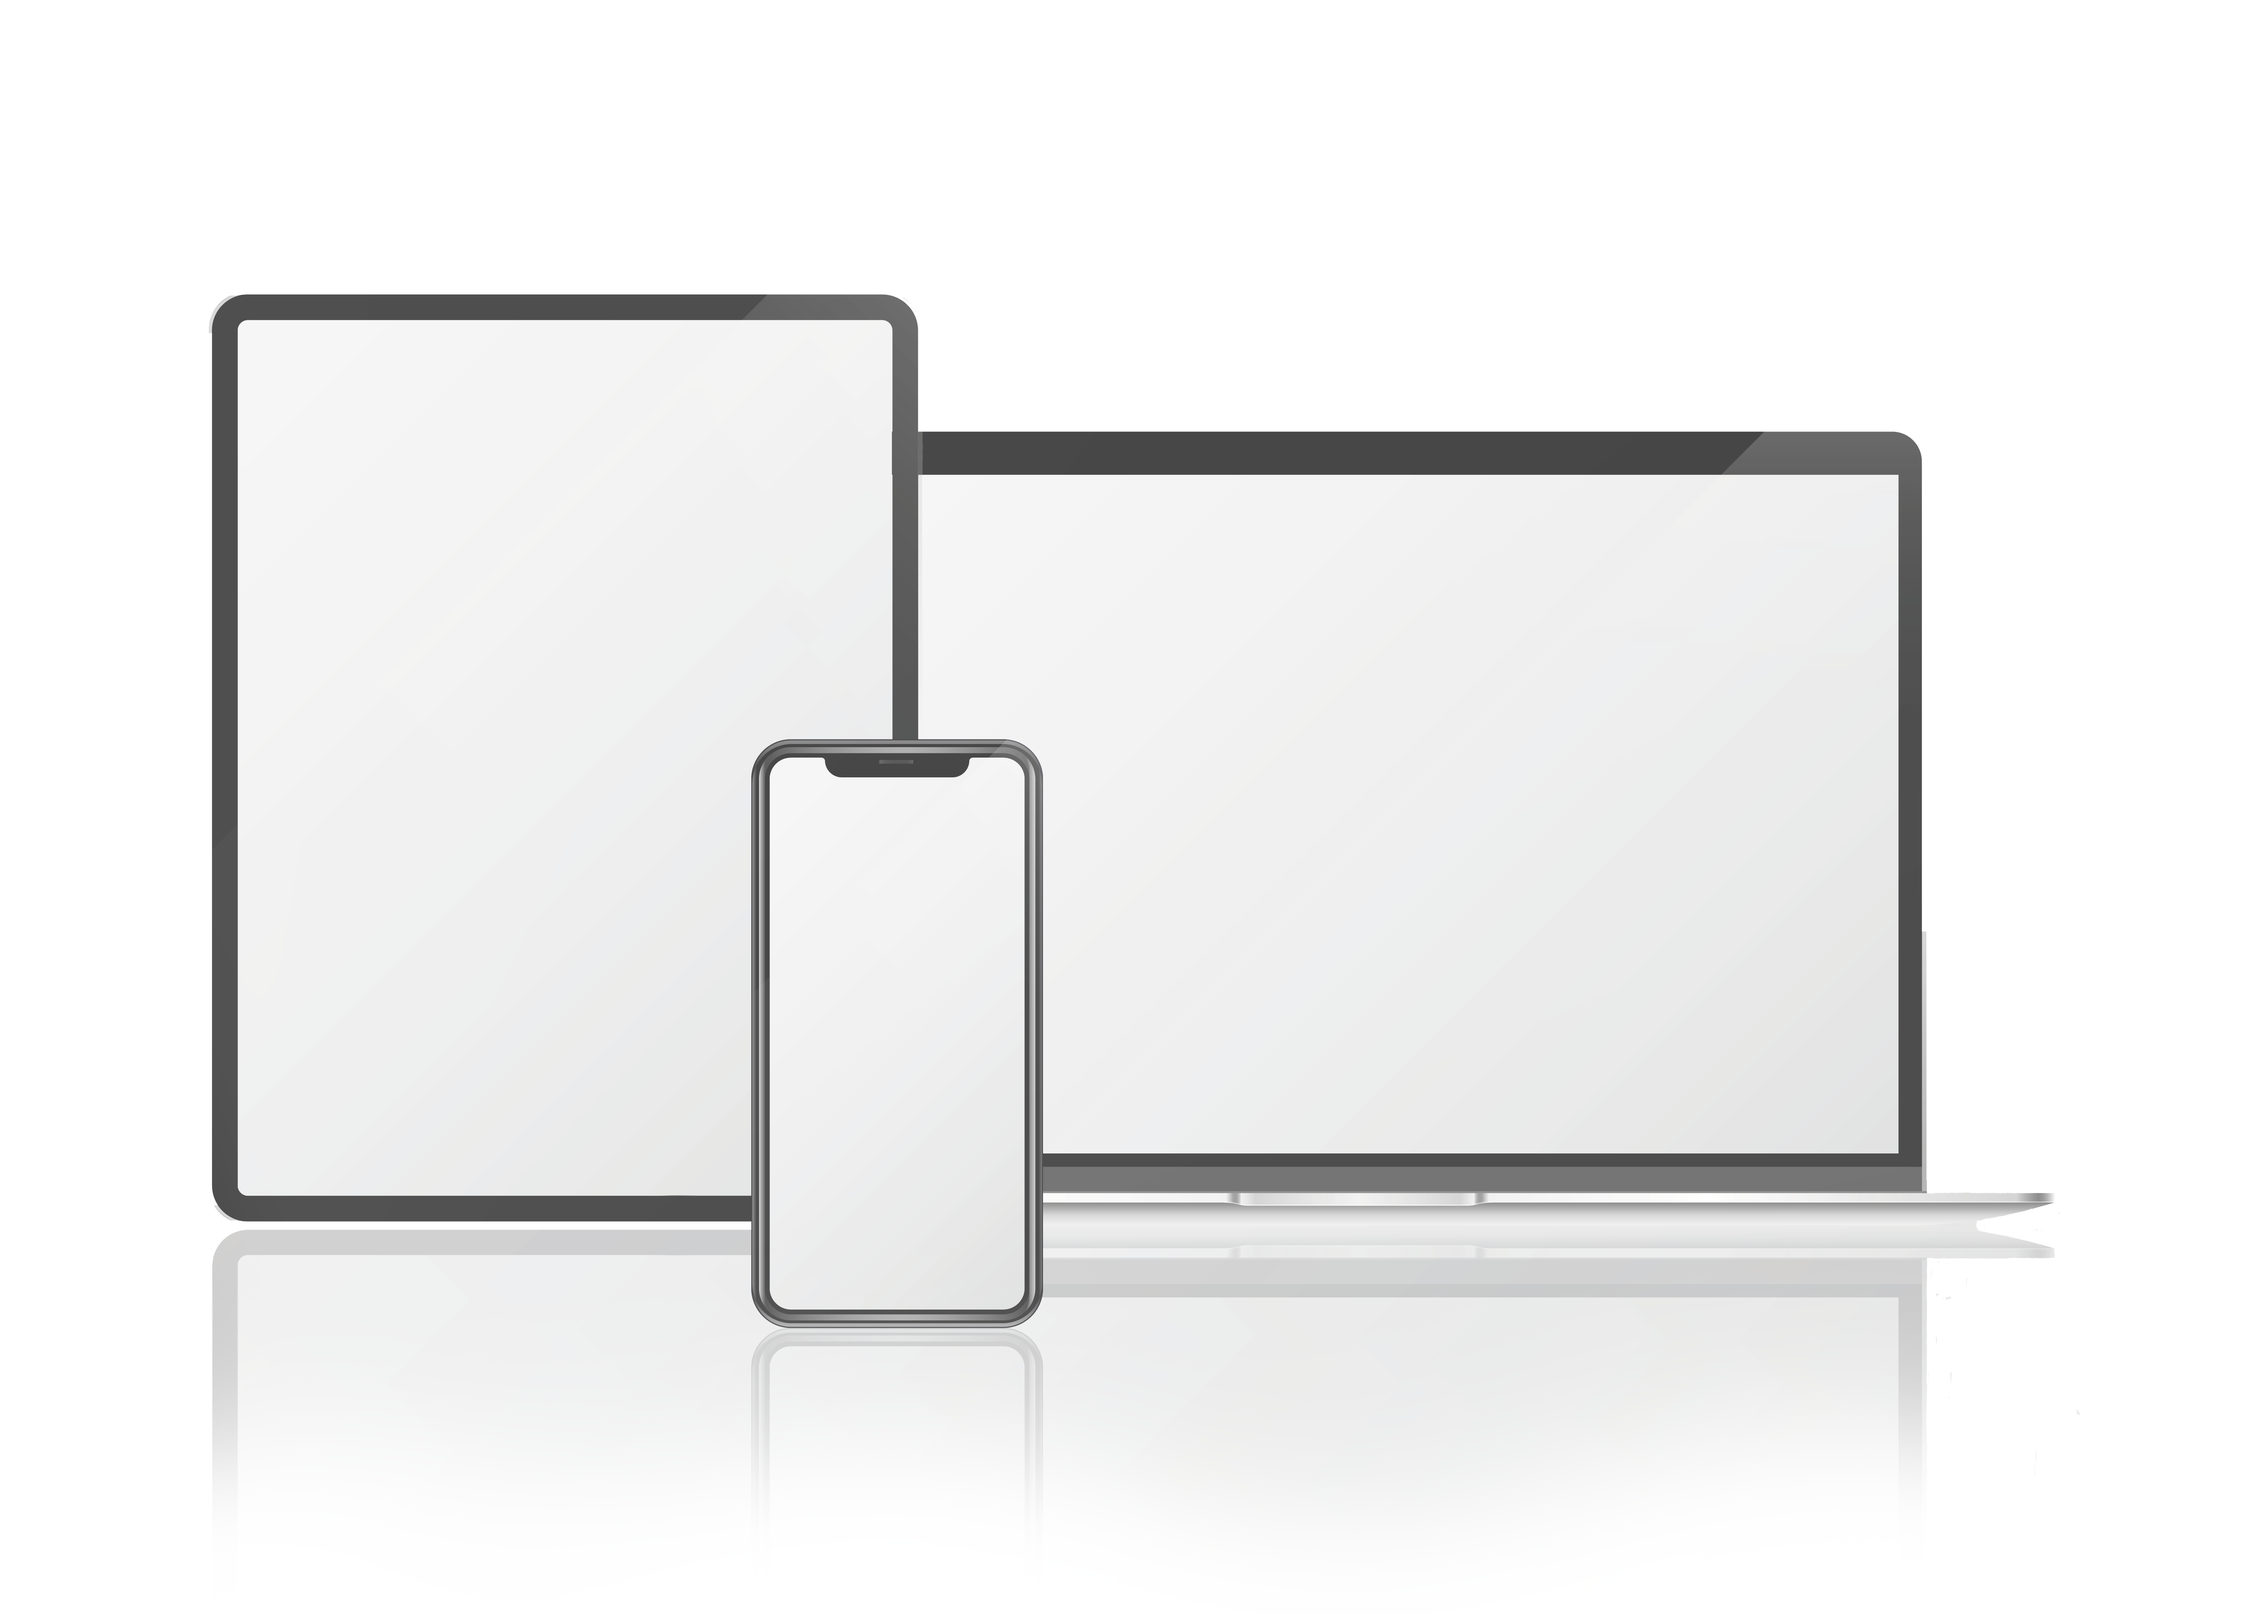
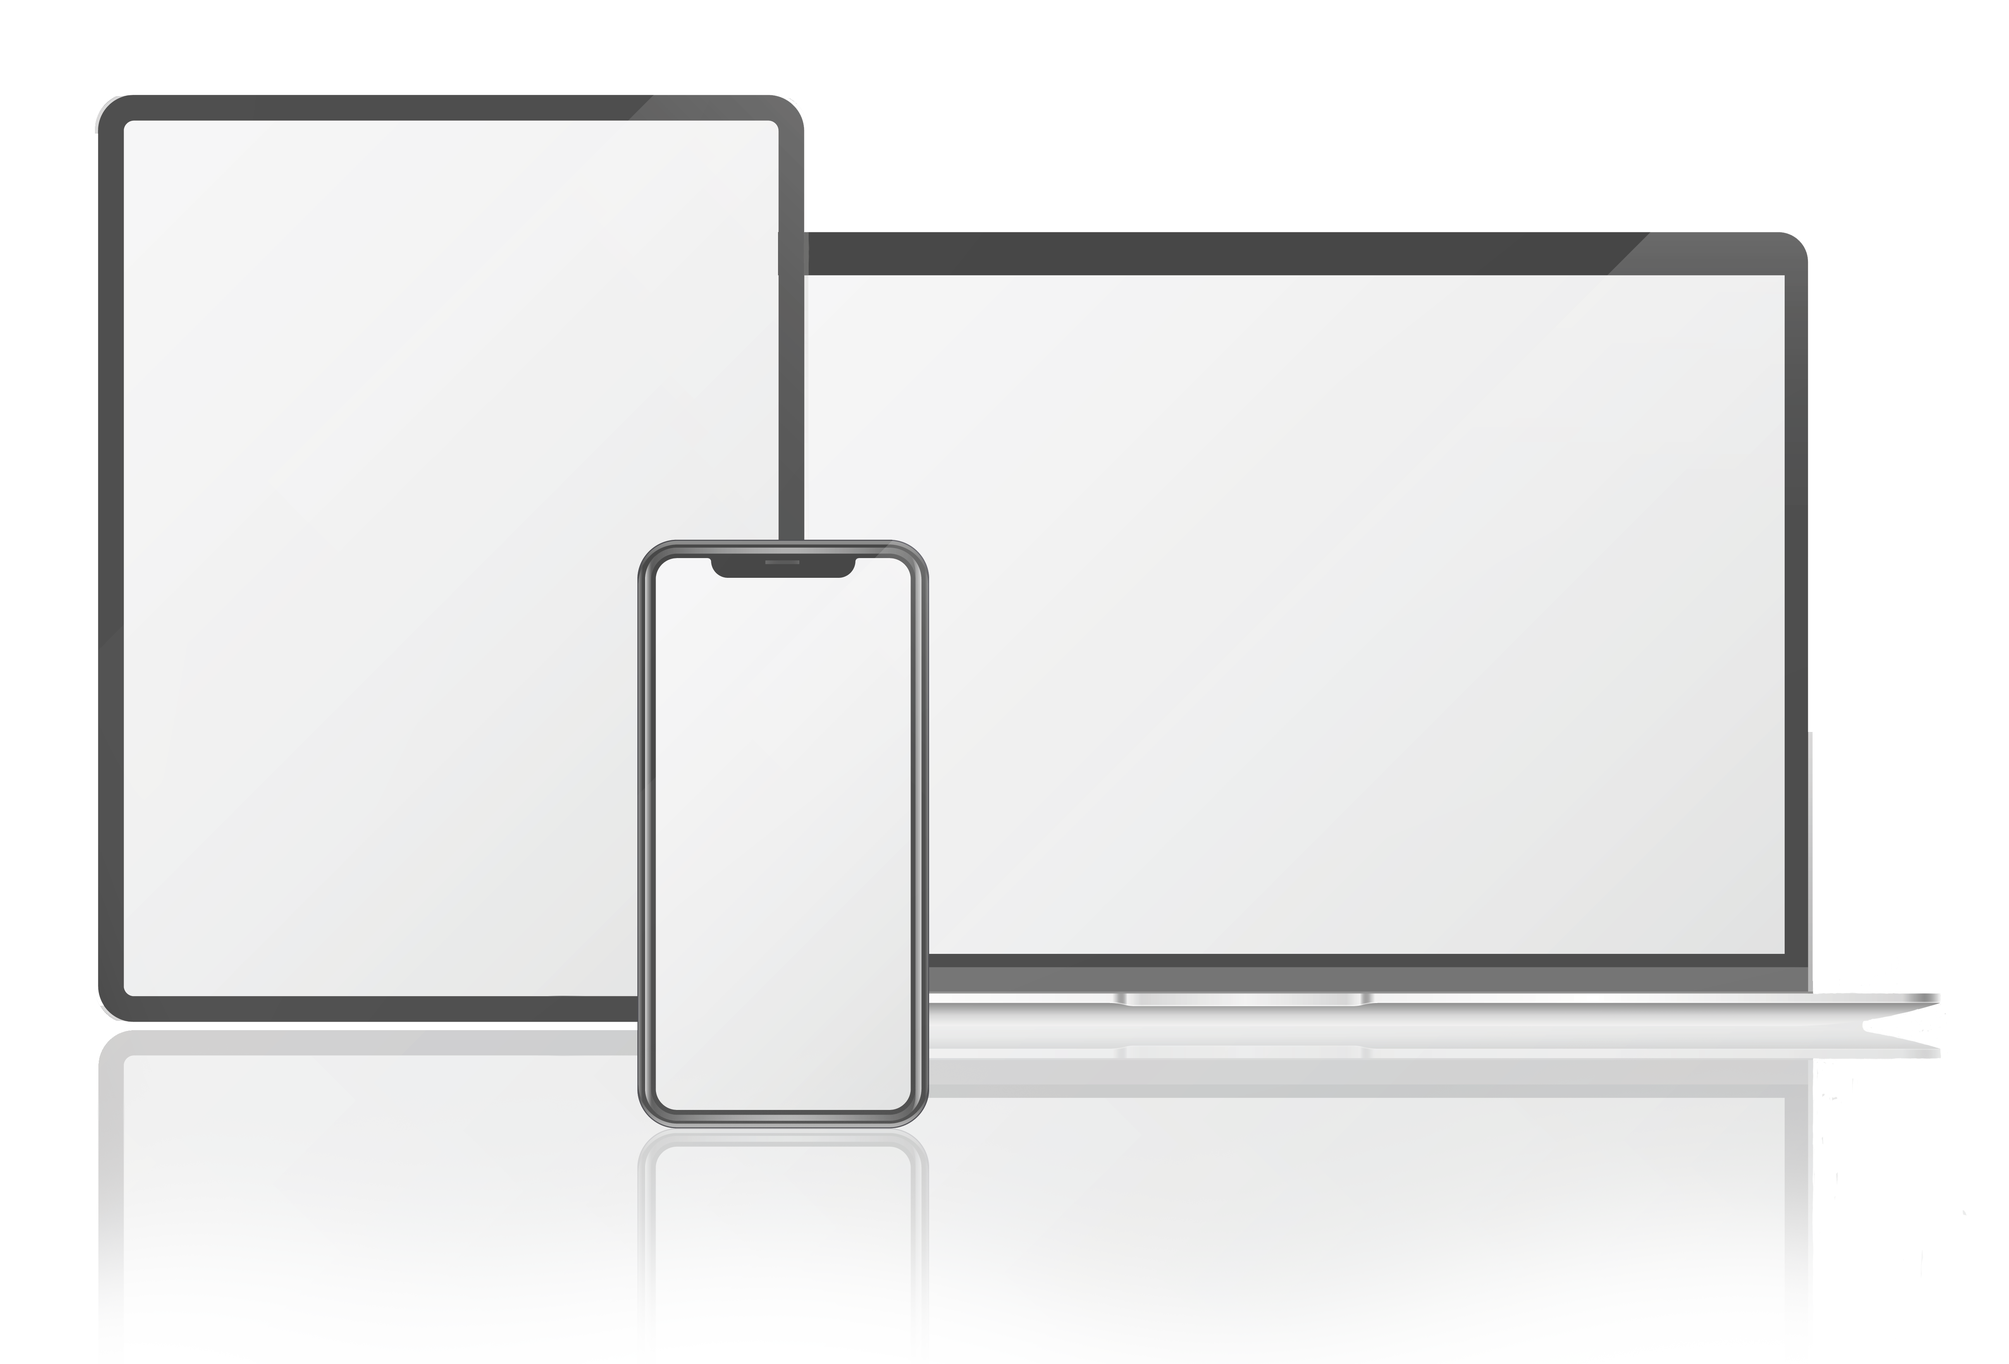
Before and After Authentication styling complete for landing page and navbar

Changed region(s): [[0.0312, 0.0625, 0.9686, 0.9057]]

diff --git a/Squashable/ClientApp/src/components/Home.js b/Squashable/ClientApp/src/components/Home.js
@@ -1,5 +1,6 @@
 import React from "react";
 import { useAuth0 } from "@auth0/auth0-react";
+import Profile from "./Profile";
 import DeviceMockups from "../media/device-mockups.png";
 import "./Home.css";
 import "../App.css";
@@ -9,9 +10,9 @@ export const Home = () => {
   const renderHomepage = () => {
     if (isAuthenticated) {
       return (
-        <div fluid className="home-container">
+        <>
           <div className="home-section">
-            <div className="landing-page-heading">
+            <div className="landing-page-heading-after-auth">
               <h2>Welcome to</h2>
               <h1>Squashable.</h1>
               <h2>a fully functional bug tracking system.</h2>
@@ -19,54 +20,57 @@ export const Home = () => {
                 built for <u className="developer-word">Developers</u>, by{" "}
                 <u className="developer-word">Developers</u>.
               </h3>
-              <button className="dashboard-button" to="/dashboard">
-                Dashboard
-              </button>
             </div>
+
             <img
-              id="device-mockups"
+              id="device-mockups-after-auth"
               src={DeviceMockups}
-              class="img-fluid fade-in-image"
+              class="img-fluid fade-in-image ms-auto"
               alt="device-mockups"
             ></img>
           </div>
+
           <div className="about-section">
             <h1>About</h1>
           </div>
           <div className="contact-section">
             <h1>Contact</h1>
           </div>
-        </div>
+        </>
       );
     } else {
       return (
-        <div fluid className="home-container">
-          <div className="home-section">
-            <div className="landing-page-heading">
-              <h2>Welcome to</h2>
-              <h1>Squashable.</h1>
-              <h2>a fully functional bug tracking system.</h2>
-              <h3>
-                built for <u className="developer-word">Developers</u>, by{" "}
-                <u className="developer-word">Developers</u>.
-              </h3>
+        <>
+          <div fluid className="home-container">
+            <div className="home-section">
+              <div className="landing-page-heading-before-auth">
+                <h2>Welcome to</h2>
+                <h1>Squashable.</h1>
+                <h2>a fully functional bug tracking system.</h2>
+                <h3>
+                  built for <u className="developer-word">Developers</u>, by{" "}
+                  <u className="developer-word">Developers</u>.
+                </h3>
+              </div>
+
+              <img
+                id="device-mockups-before-auth"
+                src={DeviceMockups}
+                class="img-fluid fade-in-image ms-auto"
+                alt="device-mockups"
+              ></img>
             </div>
-            <img
-              id="device-mockups"
-              src={DeviceMockups}
-              class="img-fluid fade-in-image"
-              alt="device-mockups"
-            ></img>
+            <div className="about-section">
+              <h1>About</h1>
+            </div>
+            <div className="contact-section">
+              <h1>Contact</h1>
+            </div>
           </div>
-          <div className="about-section">
-            <h1>About</h1>
-          </div>
-          <div className="contact-section">
-            <h1>Contact</h1>
-          </div>
-        </div>
+        </>
       );
     }
   };
+
   return <>{renderHomepage()}</>;
 };

diff --git a/Squashable/ClientApp/src/components/NavMenu.js b/Squashable/ClientApp/src/components/NavMenu.js
@@ -1,9 +1,11 @@
 import React from "react";
 import { Container, Navbar, Nav } from "react-bootstrap";
-import Profile from "../components/Profile";
 import { useAuth0 } from "@auth0/auth0-react";
 import { Link } from "react-router-dom";
 import "./NavMenu.css";
+import LogoutButton from "./Logout";
+import LoginButton from "./Login";
+import Profile from "./Profile";
 
 const NavMenu = () => {
   const { isAuthenticated } = useAuth0();
@@ -13,13 +15,17 @@ const NavMenu = () => {
       <Navbar sticky="top" className="navbar" expand="lg">
         <Container className="navbar-container">
           <Navbar.Brand variant="light" tag={Link} to="/">
-            Squashable
+            Squashable.
           </Navbar.Brand>
           <Navbar.Toggle aria-controls="basic-navbar-nav" />
           <Navbar.Collapse id="basic-navbar-nav">
             <Nav className="ms-auto nav-links">
               <Profile />
 
+              <button className="dashboard-button" to="/dashboard">
+                Dashboard
+              </button>
+              <LogoutButton />
               <Nav.Link
                 className="nav-about-btn"
                 variant="light"
@@ -46,8 +52,7 @@ const NavMenu = () => {
           <Navbar.Toggle aria-controls="basic-navbar-nav" />
           <Navbar.Collapse id="basic-navbar-nav">
             <Nav className="ms-auto nav-links">
-              <Profile />
-
+              <LoginButton />
               <Nav.Link
                 className="nav-about-btn"
                 variant="light"

diff --git a/Squashable/ClientApp/src/components/Home.css b/Squashable/ClientApp/src/components/Home.css
@@ -225,8 +225,17 @@ h3 {
 
 @media only screen and (min-width: 1200px) {
 
-.landing-page-heading{
-    margin-top: 2%;
+.landing-page-heading-after-auth{
+    margin-top: 3%;
+    margin-left: 5%;
+    width: fit-content;
+    max-width: 100%;
+    display: flex;
+    flex-direction: column;
+}
+
+.landing-page-heading-before-auth {
+    margin-top: 9%;
     margin-left: 5%;
     width: fit-content;
     max-width: 100%;
@@ -254,6 +263,7 @@ h3 {
     width: 2000px;
     margin: auto;
     max-width: 100%;
+    margin-top: -84px;
     height: fit-content;
 }
 
@@ -261,14 +271,25 @@ h3 {
     color: rgb(0, 0, 0);
 }
 
-
-#device-mockups{
-    width: 1100px;
-    margin-left: 500px;
-    margin-top: -210px;
+#device-mockups-before-auth {
+    width: 60%;
+    max-width: 100%;
+    display: flex;
+    margin-left: 650px;
+    margin-top: -30px;
     -webkit-filter: drop-shadow(2px 5px 21px #222);
     filter: drop-shadow(2px 5px 21px #222);
 }
+
+#device-mockups-after-auth{
+    width: 60%;
+    max-width: 100%;
+    display: flex;
+    margin-left: 650px;
+    -webkit-filter: drop-shadow(2px 5px 21px #222);
+    filter: drop-shadow(2px 5px 21px #222);
+}
+
 
 .fade-in-image {
     animation: fadeIn 5s;
@@ -368,6 +389,9 @@ h3 {
     margin: auto;
     text-align: center;
 }
+
+
+
 }
 
 /* END OF DESKTOP & LARGER SCREEN STYLING */

diff --git a/Squashable/ClientApp/src/components/NavMenu.css b/Squashable/ClientApp/src/components/NavMenu.css
@@ -80,9 +80,11 @@
 
 @media only screen and (min-width: 1200px) {
  .navbar-container{
+   z-index: 1000;
     width: 100%;
     max-width: 100%;
   }
+
 
   .navbar{
     width: 150%;
@@ -96,24 +98,40 @@
     font-size: 18px;
   }
 
-  .profile{
-    width: 300px;
-    display: flex;
-  }
+.profile-container {
+  width: min-content;
+  max-width: 100%;
+  height: fit-content;
+}
 
-  .profile-image{
-    width: 40px;
-    height: 40px;
-    border-radius: 35px;
-    margin:auto;
-  }
 
-  .profile-name{
-    font-size: 16px;
-    text-align: center;
-    margin: auto;
-    color: black;
-  }
+.profile-image {
+  width: 40px;
+  height: 40px;
+  margin-left: -50px;
+  margin: auto;
+  border-radius: 105px;
+}
+
+.profile-name {
+  font-size: 18px;
+  text-align: center;
+  margin: auto;
+  margin-left: 10px;
+  justify-content: center;
+  align-items: center;
+  color: black;
+}
+
+.dashboard-button {
+  font-size: 16px;
+  background-color: rgba(109, 247, 151, 0.618);
+  border: rgb(102, 110, 102) solid 1px;
+  border-radius: 10px;
+  margin-left: 30px;
+  width: fit-content;
+  max-width: 100%;
+}
 
   .login-button {
     font-size: 16px;

diff --git a/Squashable/ClientApp/src/components/Profile.js b/Squashable/ClientApp/src/components/Profile.js
@@ -1,7 +1,5 @@
 import { useAuth0 } from "@auth0/auth0-react";
 import React from "react";
-import LoginButton from "./Login";
-import LogoutButton from "./Logout";
 
 const Profile = () => {
   const { user, isAuthenticated, isLoading } = useAuth0();
@@ -9,15 +7,11 @@ const Profile = () => {
   const renderProfile = () => {
     if (isAuthenticated) {
       return (
-        <div className="profile">
+        <>
           <img className="profile-image" src={user.picture} alt="Profile" />
           <div className="profile-name">Welcome, {user.name}!</div>
-
-          <LogoutButton />
-        </div>
+        </>
       );
-    } else {
-      return <LoginButton />;
     }
   };
 

diff --git a/Squashable/ClientApp/public/index.html b/Squashable/ClientApp/public/index.html
@@ -23,7 +23,7 @@
       work correctly both with client-side routing and a non-root public URL.
       Learn how to configure a non-root public URL by running `npm run build`.
     -->
-    <title>Squashable</title>
+    <title>Squashable.</title>
   </head>
   <body>
     <noscript> You need to enable JavaScript to run this app. </noscript>
